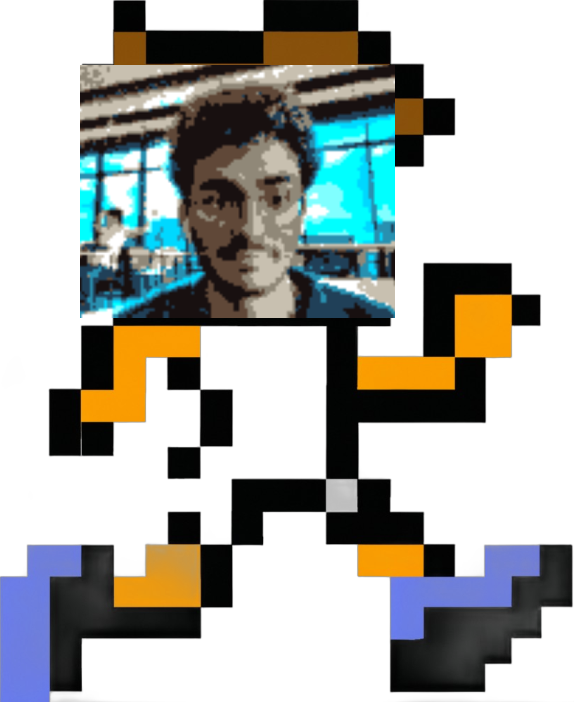
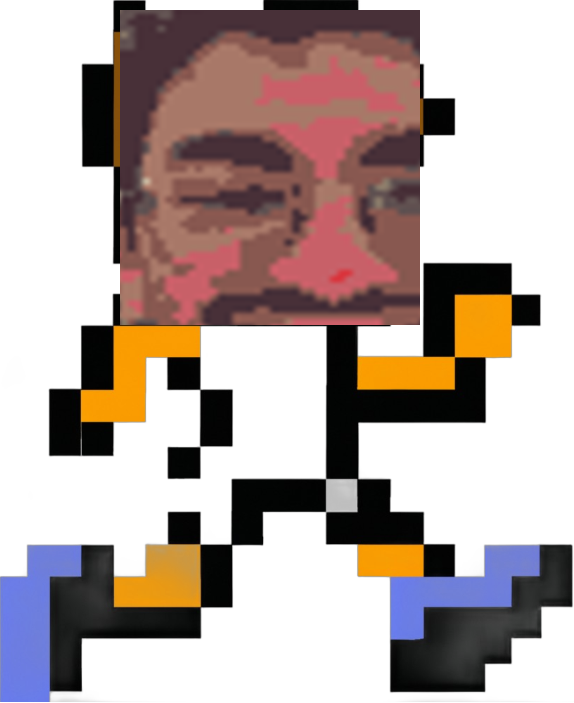
working face application

Changed region(s): [[0.1185, 0.0, 0.7404, 0.478]]

diff --git a/RunsWorking/pyxelate/DropImage.py b/RunsWorking/pyxelate/DropImage.py
@@ -4,16 +4,16 @@ from PIL import Image, ImageDraw, ImageFilter
 CharDude = Image.open('result (1).png')
 person = Image.open('pixel.png')
 
-reSizedPerson = person.resize((450,253), resample=None, box=None, reducing_gap=None)
+reSizedPerson = person.resize((1200,550), resample=None, box=None, reducing_gap=None)
 
 # Get the dimensions of the resized person image
 width, height = reSizedPerson.size
 
 # Calculate the crop box to remove 10% of the width from both sides
-left = int(width * 0.2)
-upper = 0
-right = int(width * 0.9)
-lower = height
+left = int(width * 0.35)
+upper = 70
+right = int(width * 0.6)
+lower = height * .7
 
 # Crop the resized person image
 im_crop = reSizedPerson.crop((left, upper, right, lower))
@@ -25,8 +25,8 @@ im_crop.save('cropped_person.png')
 CharDude_copy = CharDude.copy()
 
 # Calculate the position to place the cropped person image on CharDude_copy
-x_offset = 80
-y_offset = 65
+x_offset = 120
+y_offset = 10
 
 # Paste the cropped person image onto CharDude_copy
 CharDude_copy.paste(im_crop, (x_offset, y_offset))

diff --git a/RunsWorking/pyxelate/main.py b/RunsWorking/pyxelate/main.py
@@ -81,7 +81,7 @@ cv.destroyAllWindows()
 image = io.imread(r"camera.jpg")  
 
 downsample_by = 4  # new image will be 1/14th of the original in size
-palette = 9  # find 7 colors
+palette = 15  # find 7 colors
 
 # 1) Instantiate Pyx transformer
 pyx = Pyx(factor=downsample_by, palette=palette)
